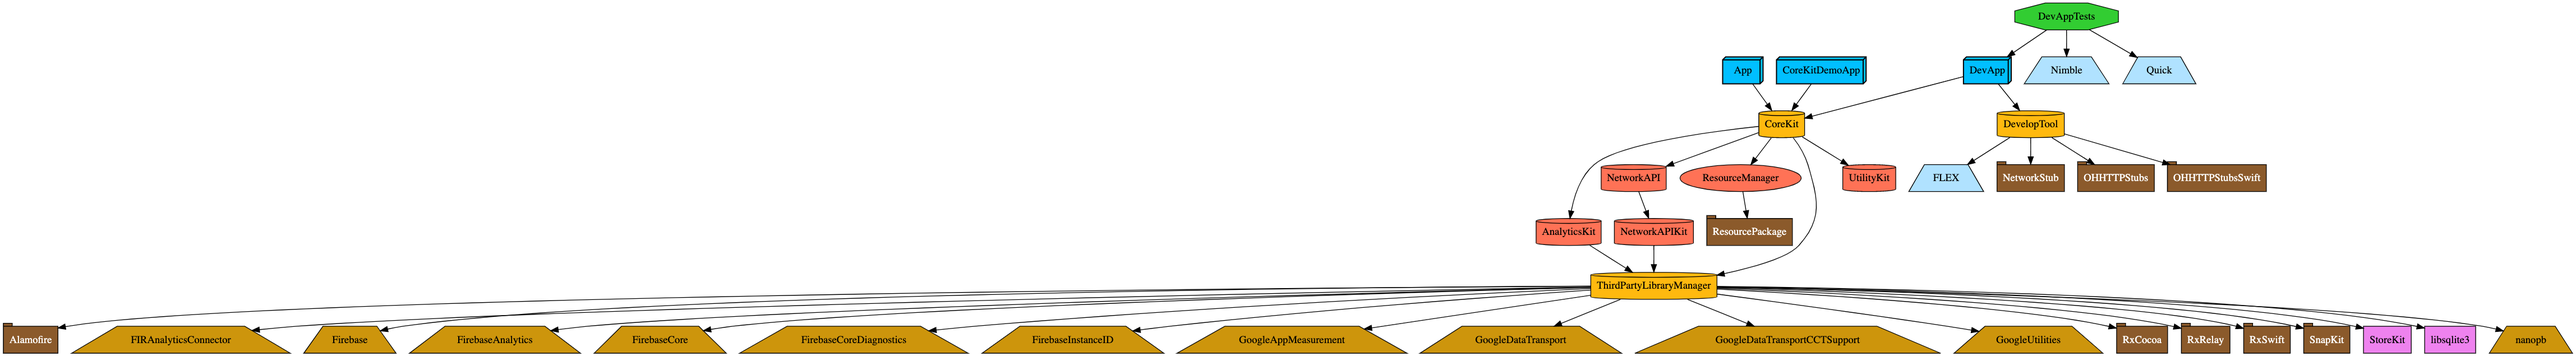
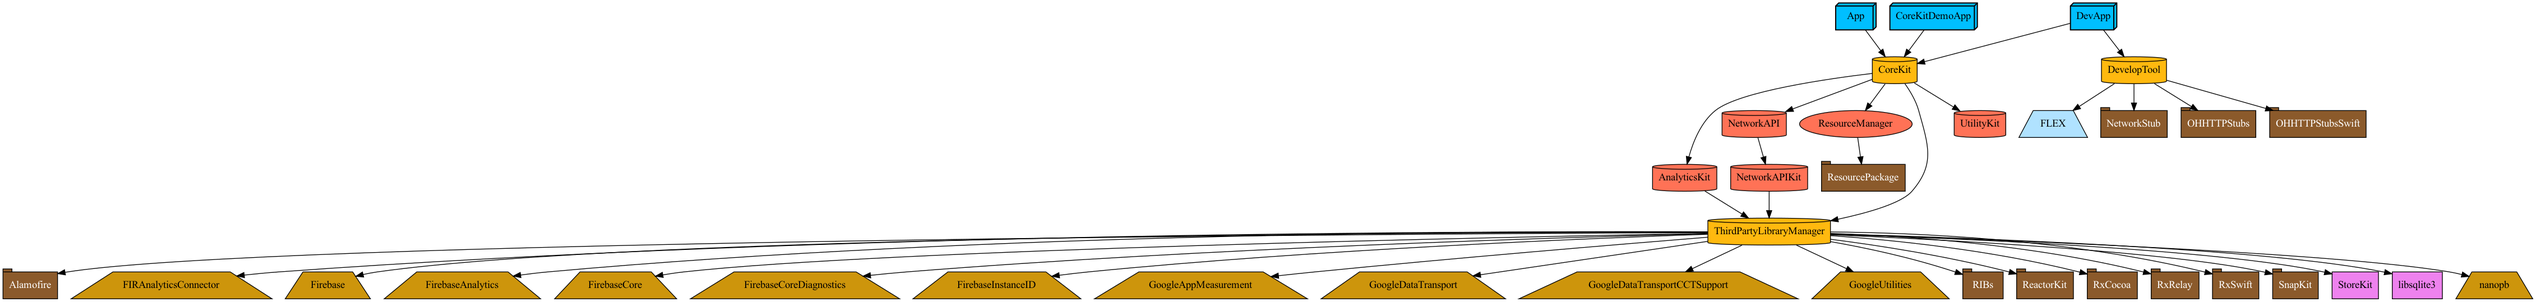
ReactorKit 추가

Changed region(s): [[0.0, 0.0, 1.0, 1.0]]

diff --git a/Plugin/UtilityPlugin/ProjectDescriptionHelpers/Dependency+SwiftPM.swift b/Plugin/UtilityPlugin/ProjectDescriptionHelpers/Dependency+SwiftPM.swift
@@ -24,6 +24,7 @@ public extension TargetDependency.SwiftPM {
     static let SnapKit          = TargetDependency.package(product: "SnapKit")
     static let ResourcePackage  = TargetDependency.package(product: "ResourcePackage")
     static let FlexLayout       = TargetDependency.package(product: "FlexLayout")
+    static let ReactorKit       = TargetDependency.package(product: "ReactorKit")
     static let RIBs             = TargetDependency.package(product: "RIBs")
     static let RxSwift          = TargetDependency.package(product: "RxSwift")
     static let RxCocoa          = TargetDependency.package(product: "RxCocoa")
@@ -37,12 +38,13 @@ public extension TargetDependency.SwiftPM.DevelopTool {
 }
 
 public extension Package {
-    static let ResourcePackage = Package.local(path: .relativeToModule("ResourcePackage"))
     static let Alamofire       = Package.package(url: "https://github.com/Alamofire/Alamofire.git", .branch("master"))
-    static let SnapKit         = Package.package(url: "https://github.com/SnapKit/SnapKit.git", .upToNextMajor(from: "5.0.1"))
     static let FlexLayout      = Package.package(url: "https://github.com/layoutBox/FlexLayout.git", .branch("master"))
+    static let ReactorKit      = Package.package(url: "https://github.com/ReactorKit/ReactorKit.git", .branch("master"))
+    static let ResourcePackage = Package.local(path: .relativeToModule("ResourcePackage"))
     static let RIBs            = Package.package(url: "https://github.com/uber/RIBs.git", .branch("master"))
     static let RxSwift         = Package.package(url: "https://github.com/ReactiveX/RxSwift.git", from: "6.0.0")
+    static let SnapKit         = Package.package(url: "https://github.com/SnapKit/SnapKit.git", .upToNextMajor(from: "5.0.1"))
 }
 
 public extension Package.DevelopTool {

diff --git a/Tuist/Dependencies.swift b/Tuist/Dependencies.swift
@@ -25,6 +25,9 @@ let dependencies = Dependencies(
             .package(url: "https://github.com/SnapKit/SnapKit.git", .upToNextMajor(from: "5.0.1")),
             .package(url: "https://github.com/AliSoftware/OHHTTPStubs.git", .branch("master")),
             .package(url: "https://github.com/layoutBox/FlexLayout.git", .branch("master")),
+            .package(url: "https://github.com/ReactorKit/ReactorKit.git", .branch("master")),
+            .package(url: "https://github.com/uber/RIBs.git", .branch("master")),
+            .package(url: "https://github.com/ReactiveX/RxSwift.git", from: "6.0.0"),
             .local(path: .relativeToRoot("Projects/Modules/ResourcePackage")),
         ]
     ),

diff --git a/Projects/Modules/ThirdPartyLibraryManager/Project.swift b/Projects/Modules/ThirdPartyLibraryManager/Project.swift
@@ -5,6 +5,7 @@ let project = Project
     .framework(name: "ThirdPartyLibraryManager",
                packages: [
                 .Alamofire,
+                .ReactorKit,
                 .RIBs,
                 .RxSwift,
                 .SnapKit
@@ -12,6 +13,7 @@ let project = Project
                dependencies: [
                TargetDependency.Framework.Firebase,
                 [.SwiftPM.Alamofire,
+                 .SwiftPM.ReactorKit,
                  .SwiftPM.RIBs,
                  .SwiftPM.RxCocoa,
                  .SwiftPM.RxRelay,

diff --git a/Tuist/Config.swift b/Tuist/Config.swift
@@ -5,5 +5,6 @@ let config = Config(
         .local(path: .relativeToRoot("Plugin/UtilityPlugin"))
     ],
     generationOptions: [
-        .disableAutogeneratedSchemes
+        .disableAutogeneratedSchemes,
+        .disableSynthesizedResourceAccessors,
     ])
